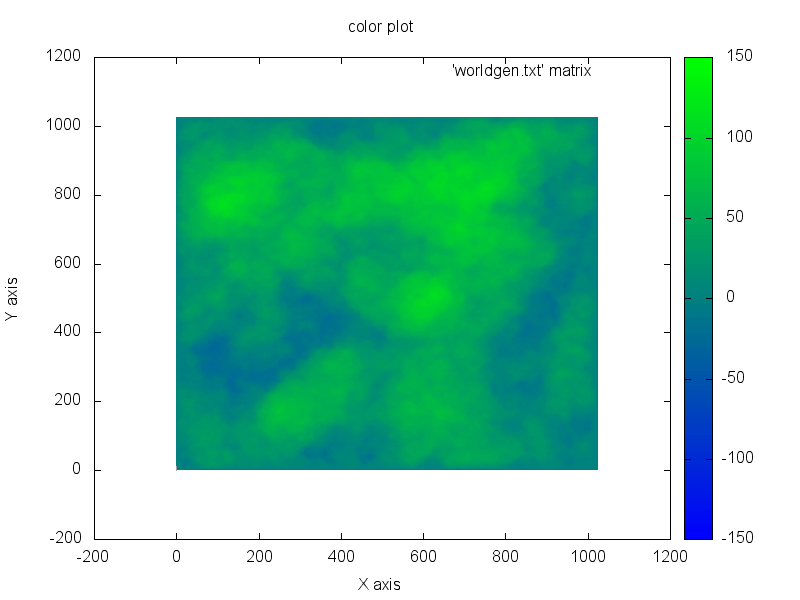
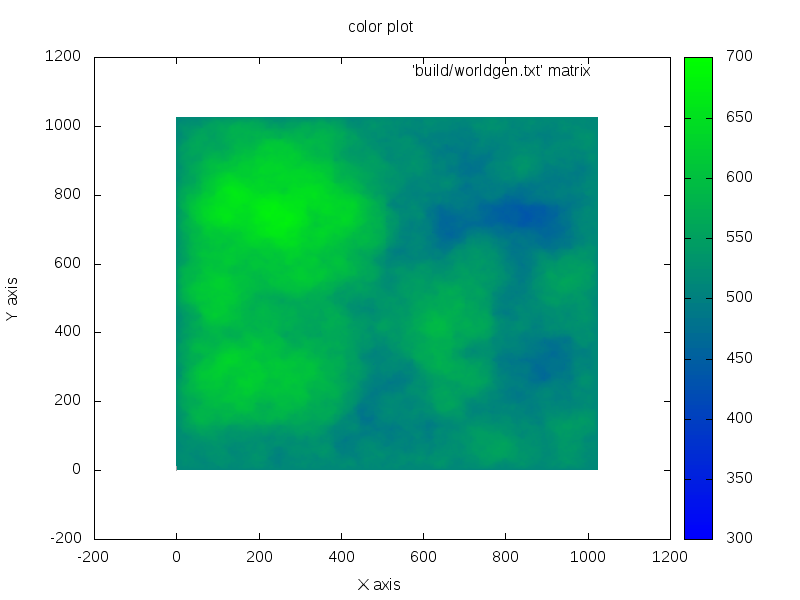
merge

diff --git a/Octry/worldgen.cpp b/Octry/worldgen.cpp
@@ -9,7 +9,7 @@ namespace worldgen
 
 	LandScape::LandScape(int layers) :
 		size((1<<layers) + 1),
-		heights(size, std::vector<double>(size, 0.0))
+		heights(size, std::vector<double>(size, (double)(size/2)))
 	{
 		//
 	}
@@ -26,6 +26,12 @@ namespace worldgen
 
 	}
 
+	void LandScape::add(const point & position, double value)
+	{
+		heights[position.x][position.y] += value;
+
+	}
+
 	void LandScape::print(std::ostream * out)
 	{
 		for (vector<double> row : heights)
@@ -38,17 +44,22 @@ namespace worldgen
 		}
 	}
 
-	LandScape & LandScape::compress(int layer)
+	LandScape * LandScape::compress(int layer)
 	{
 		int blocksize = 1<<layer;
+		LandScape * newls = new LandScape(*this); //make pointer to copy of this
 		for (int x=0;x<size;x++)
 		{
 			int floorx = (x/blocksize)*blocksize; //rounds x down to multiple of blocksize
 			for (int y=0;y<size;y++)
 			{
-
+				int floory = (x/blocksize)*blocksize; //rounds y down to multiple of blocksize)
+				int floorval = ((int)get({floorx,floory})/blocksize)*blocksize; /// rounds z down to multiple of blocksize
+				newls->set({x,y},floorval);
 			}
 		}
+		cout << "exiting compression ...\n";
+		return(newls);
 	}
 
 	Square::Square(const point & topleft, int layers, bool tilted)
@@ -96,7 +107,7 @@ namespace worldgen
 
 	void HeightMap::calculate_step(int layer)
 	{
-		cout << "building layer " << layer << std::endl;
+		cout << "generation layer " << layer << std::endl;
 		int stepsize = 1 << layer;
 		for (int x = 0; x < landscape.size-1; x += stepsize)
 		{
@@ -128,6 +139,24 @@ namespace worldgen
 		{
 			calculate_step(l);
 		}
+	}
+
+	octree<int> * HeightMap::build_octree()
+	{
+		calculate();
+		LandScape * prev = landscape.compress(layers);
+		cout << "exited compression ...\n";
+		/*for (int layer = layers-1;layer <= 0;layer--)
+		{
+			cout << "building layer " << layer << std::endl;
+			LandScape * next = landscape.compress(layer);
+			std::stringstream filename;
+			filename << "compress" << layer << ".txt";
+			std::ofstream outfile(filename.str());
+			next->print(&outfile);
+
+		}*/
+		return(0);
 	}
 	
 }

diff --git a/Octry/worldgen.h b/Octry/worldgen.h
@@ -8,7 +8,9 @@
 #include <numeric>
 #include <iostream>
 #include <ostream>
+#include <fstream>
 #include <iomanip>
+#include <sstream>
 #include "Octree/octree.h"
 
 
@@ -38,10 +40,12 @@ namespace worldgen
 		double get(const point & position) const;
 		/// setter method
 		void set(const point & position, double);
+		/// same as set but will add a value to the existing one.
+		void add(const point & position, double);
 		/// will export the Landscape to a given ofstream. If ofstream is a file, it can be read by buildmap.gp
 		void print(std::ostream * );
 		/// gives a compressed version of the Landscape. Used for building octrees.
-		LandScape & compress(int layer);
+		LandScape * compress(int layer);
 
 	public:
 		int size;
@@ -83,6 +87,9 @@ namespace worldgen
 		HeightMap(int layers, double height, double noise);
 		/// calculates the height of the landscape. After doing this, the results are stored in the landscape member.
 		void calculate();
+		/** Generates the world ans returns the correct octree.
+		 * 
+		 */
 		octree<int> build_octree();
 
 
